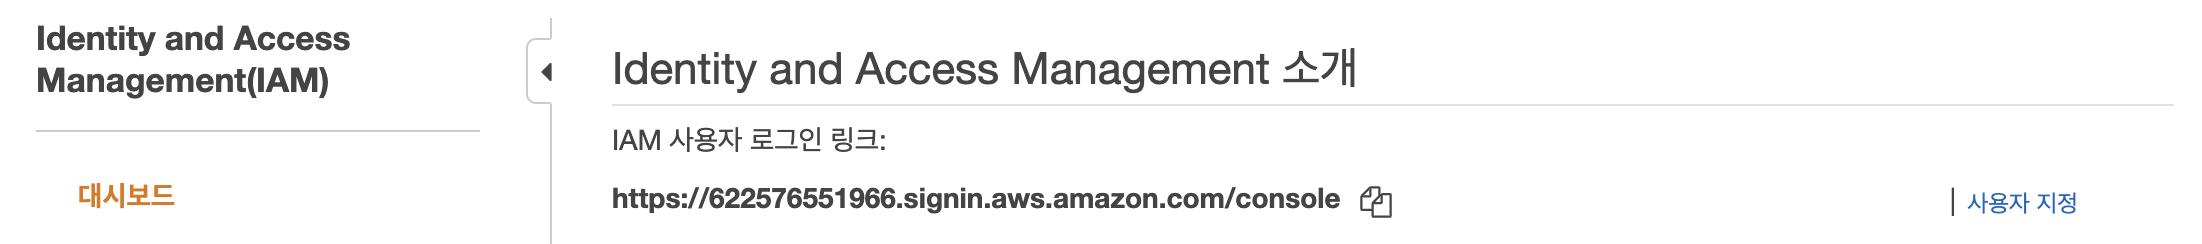
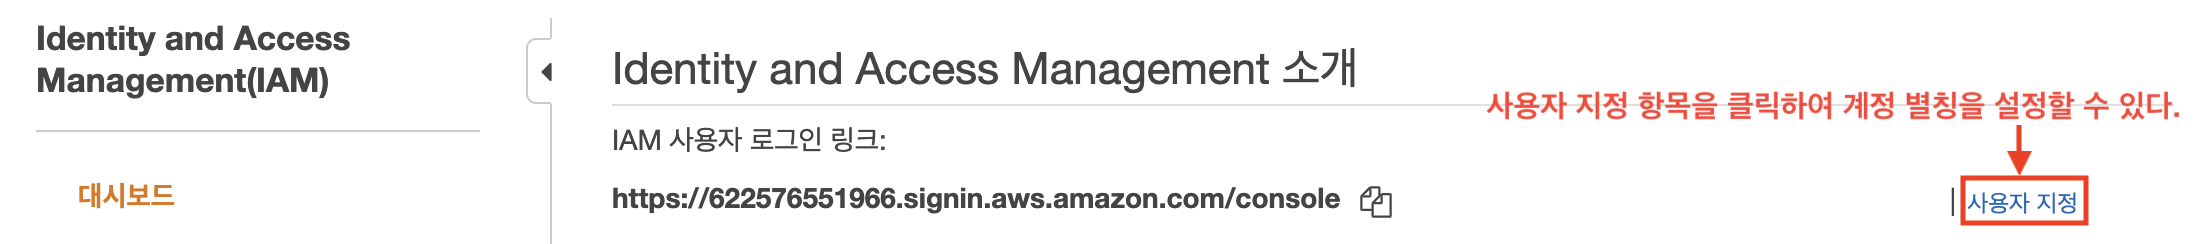
imp: AWS IAM 글 보완, 블로그 템플릿 레이아웃 css 수정

diff --git a/src/templates/blogTemplate.tsx b/src/templates/blogTemplate.tsx
@@ -138,8 +138,8 @@ const PostArticle = styled.article`
   }
 
   .gatsby-resp-image-figure {
-    margin-top: 1rem;
-    margin-bottom: 1rem;
+    margin-top: 3rem;
+    margin-bottom: 1.75rem;
     padding-top: 1rem;
     padding-bottom: 1rem;
   }
@@ -161,7 +161,7 @@ const PostComment = styled.div`
 
 export default function Template({ data }: any) {
   const { markdownRemark } = data;
-  const { fields, frontmatter, html } = markdownRemark;
+  const { excerpt, fields, frontmatter, html } = markdownRemark;
   const disqusConfig = {
     shortname: "dev-kyoungah-com",
     config: {
@@ -175,7 +175,7 @@ export default function Template({ data }: any) {
     <>
       <Seo
         title={frontmatter.title}
-        description={frontmatter.description}
+        description={excerpt}
         url={`${process.env.GATSBY_BLOG_URL}${fields.slug}`}
       />
       <PageTemplate>

diff --git a/gatsby-config.js b/gatsby-config.js
@@ -39,7 +39,7 @@ module.exports = {
           {
             resolve: `gatsby-remark-images`,
             options: {
-              maxWidth: 600,
+              maxWidth: 800,
               linkImagesToOriginal: false,
               showCaptions: true
             },

diff --git a/src/posts/2019-07-04-blog-migration.md b/src/posts/2019-07-04-blog-migration.md
@@ -1,7 +1,6 @@
 ---
 title: Hexo 에서 Gatsby로 블로그 마이그레이션 하기
 date: 2019-07-04
-description: Hexo에서 Gatsby로 블로그 마이그레이션 하는 과정을 정리하였습니다.
 ---
 
 이번 주 내내 Hexo로 만든 블로그를 Gatsby로 마이그레이션 하는 작업을 했다. Hexo도 나름 편했지만 테마를 원하는 대로 새로 만들거나 커스터마이징 하기 좀 어렵다는 단점이 있었다. 그러다가 [6월 말에 갔던 컨퍼런스](/etc/gdg-frontend-endgame)에서 몇몇 연사자 분들이 Gatsby.js를 언급하셔서 관심이 생겨 한번 찾아보았다. React.js, GraphQL 등을 사용하여 만들어진 정적 HTML 생성기 였는데 이걸 사용하면 테마는 물론 블로그 자체를 원하는대로 커스터마이징 하기 쉬울 것 같아 Gatsby.js로 블로그 마이그레이션을 결심했다.

diff --git a/src/posts/2019-07-21-blog-migration-2.md b/src/posts/2019-07-21-blog-migration-2.md
@@ -1,7 +1,6 @@
 ---
 title: Hexo 에서 Gatsby로 블로그 마이그레이션 하기 2
 date: 2019-07-21
-description: Hexo에서 Gatsby로 블로그 마이그레이션 하는 과정을 정리하였습니다.
 ---
 
 [Hexo에서 Gatsby로 블로그 마이그레이션 작업](/etc/blog-migration/)을 계속 이어 하면서 과정을 한번 더 정리 하였다. 직접 이것 저것 원하는대로 다 커스터마이징 하려다 보니 끝이 없는 것 같다 ㅠ.

diff --git a/src/posts/2018-08-11-html-email-templete.md b/src/posts/2018-08-11-html-email-templete.md
@@ -2,7 +2,6 @@
 title: html 이메일 템플릿 작성하기
 date: 2018-08-23 00:16:39
 path: /front-end/css/email-template
-description: 이메일 템플릿 퍼블리싱을 하면서 알게된 것들을 정리했습니다.
 ---
 
 오랜만에 퍼블리싱 외주를 받았는데 이메일 템플릿을 퍼블리싱 하는 일이었다.

diff --git a/src/posts/2019-06-26-front-end-endgame-review.md b/src/posts/2019-06-26-front-end-endgame-review.md
@@ -1,7 +1,6 @@
 ---
 title: GDG FRONT-ENDGAME 컨퍼런스 후기
 date: 2019-06-26 23:33:12
-description: GDG FRONT-ENDGAME 컨퍼런스에서 들은 세션 내용들을 정리했습니다.
 path: /etc/gdg-frontend-endgame
 ---
 

diff --git a/src/posts/2020-03-16-etc-token.md b/src/posts/2020-03-16-etc-token.md
@@ -4,7 +4,6 @@ date: 2020-03-16 23:42:43
 categories:
   - back-end
   - etc
-description: 세션 인증 방식과 토큰 인증 방식에 대해 간단히 정리하였습니다.
 tags:
   - back-end
 ---

diff --git a/src/posts/2018-09-28-reactjs-props.md b/src/posts/2018-09-28-reactjs-props.md
@@ -2,7 +2,6 @@
 title: props
 path: /front-end/reactjs/props
 date: 2018-09-28 11:28:25
-description: props는 Component 속성을 설정할 때 사용하는 요소이다.
 ---
 
 ## props

diff --git a/src/posts/2018-08-05-reactjs-jsx-fragment.md b/src/posts/2018-08-05-reactjs-jsx-fragment.md
@@ -2,7 +2,6 @@
 title: Fragment
 date: 2018-08-05 06:06:13
 path: /front-end/reactjs/fragment
-description: JSX와 Fragment가 무엇인지 알아봅시다.
 ---
 
 ## JSX

diff --git a/src/posts/2018-08-02-reactjs-first-reactjs.md b/src/posts/2018-08-02-reactjs-first-reactjs.md
@@ -2,7 +2,6 @@
 title: React.js
 date: 2018-08-02 02:49:46
 path: /front-end/reactjs/reactjs
-description: React.js가 무엇인지 알아봅시다.
 ---
 
 ## React.js?

diff --git a/draft/2020-07-05-javascript-excute-context.md b/draft/2020-07-05-javascript-excute-context.md
@@ -4,7 +4,6 @@ date: 2020-07-05 20:37:22
 categories:
   - front-end
   - javaScript
-description: JavaScript 실행 컨텍스트
 tags:
   - front-end
   - javaScript
